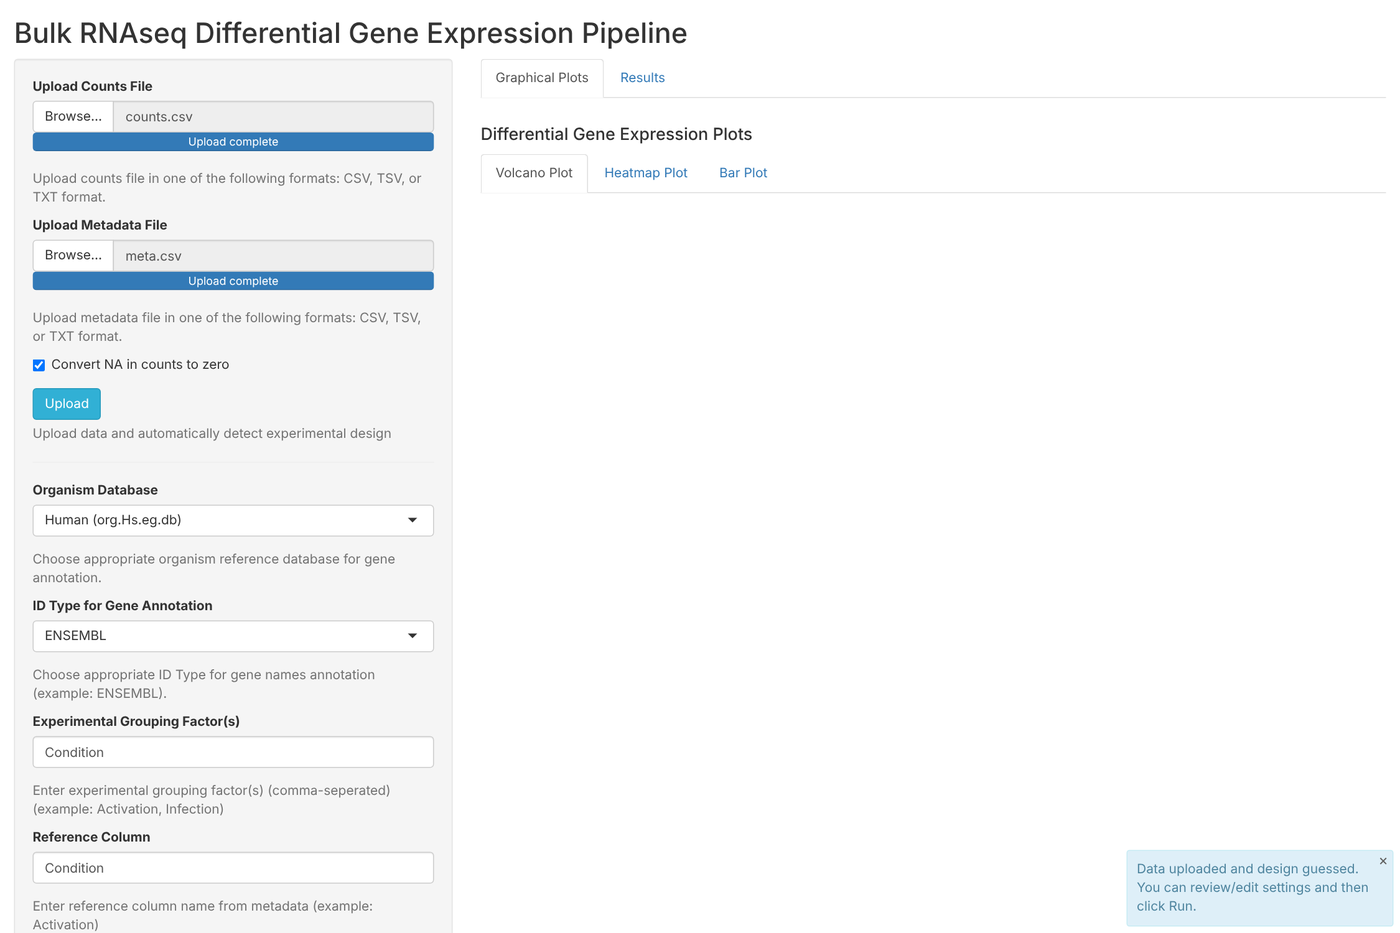
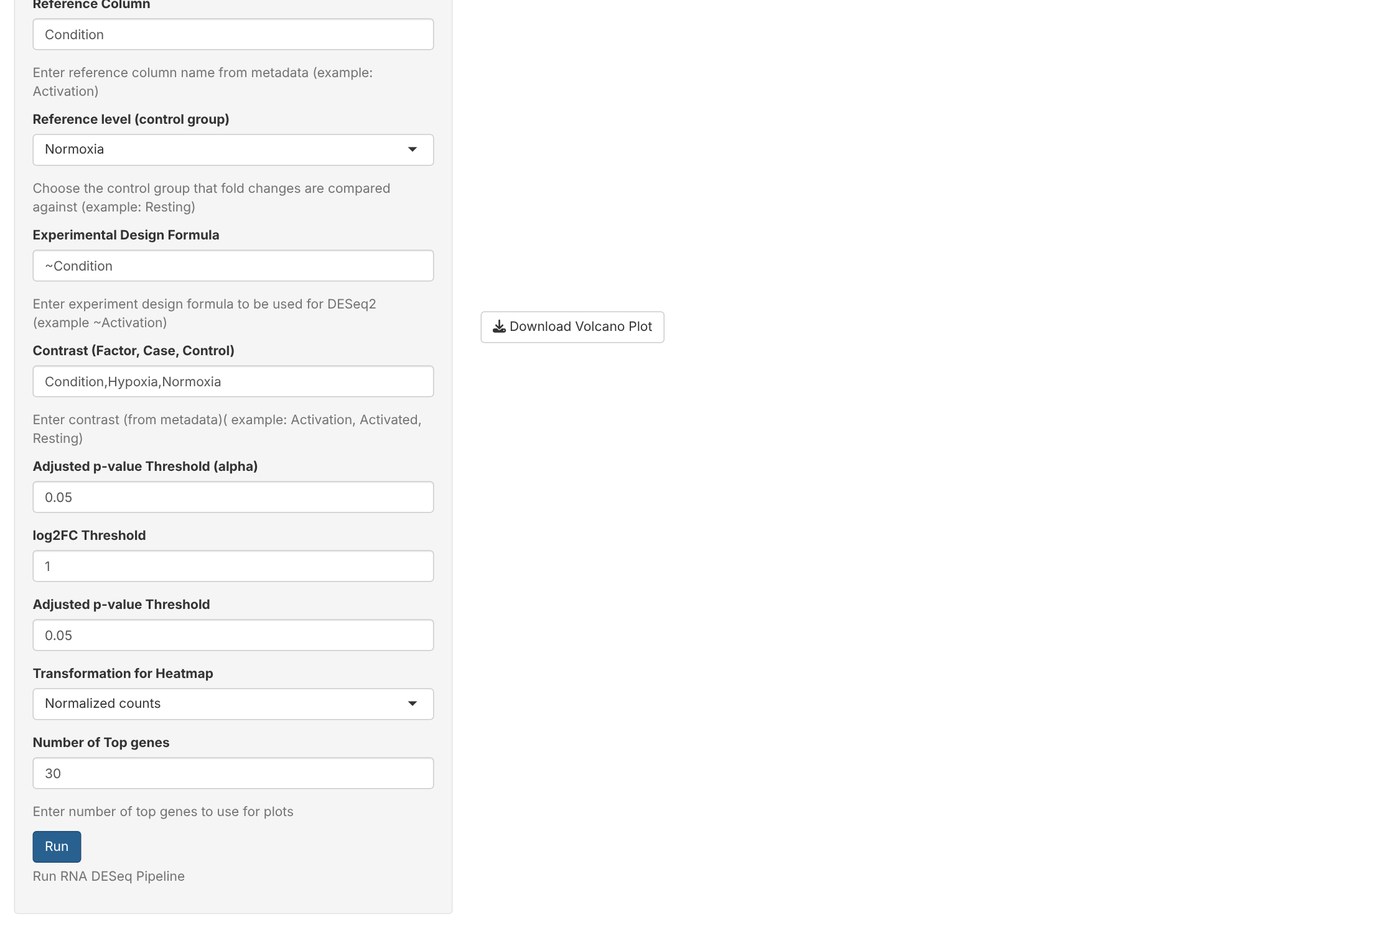
Add files via upload

diff --git a/docs/user_guide.md b/docs/user_guide.md
@@ -7,7 +7,7 @@ source("setup/install_packages.R")
 ```
 Then go to **Session → Restart R**.
 
-> The organism databases (human, mouse, rat, fly, zebrafish, yeast) are large downloads, so the first installation can take 10–20 minutes.
+> Organism databases are large downloads. The setup script installs the **human** database. Others (mouse, rat, fly, zebrafish, yeast) are installed automatically the first time you select them in the app, which can take a few minutes once.
 
 ## 2. Start the app
 Open `app.R` in RStudio and click **Run App**.
@@ -21,16 +21,16 @@ Open `app.R` in RStudio and click **Run App**.
 1. **Upload Counts File**: raw counts, genes × samples (CSV, TSV or TXT). See [input format](../example_data/README.md#input-format).
 2. **Upload Metadata File**: one row per sample, in the same order as the count columns.
 3. Leave **Convert NA in counts to zero** ticked unless you want the app to stop on missing values.
-4. Click **Upload**. The app checks that sample names match, then **guesses the design** from the first metadata column that has 2–10 groups, and fills in the settings below.
+4. Click **Upload**. The app checks that sample names match, removes stray spaces from group labels, then detects the grouping column (the first metadata column with 2–10 groups) and fills in the settings below.
 
-**Check the guessed settings. The app picks the reference group alphabetically**, which is often the wrong way round:
+5. **Choose the control group** in **Reference level (control group)**. The app does not guess it. The **contrast** then fills in automatically (case first, control last). Check the other settings:
 
 | Setting | What it means | Example |
 |---|---|---|
 | **Organism Database** | Used to add gene names | Human (org.Hs.eg.db) |
 | **ID Type** | The type of gene IDs in your counts file: `ENSG…` = ENSEMBL, numbers = ENTREZID, gene names = SYMBOL | ENSEMBL |
 | **Experimental Grouping Factor(s)** | Metadata column(s) that define groups; separate several with commas | `Condition` |
-| **Reference Column / Reference level** | The **control** group that fold changes are measured against | `Condition` / `Normoxia` |
+| **Reference Column / Reference level (control group)** | The **control** group that fold changes are measured against. Choose it from the dropdown. | `Condition` / `Normoxia` |
 | **Experimental Design Formula** | DESeq2 design; add covariates with `+` | `~Condition` or `~Activation + Infection` |
 | **Contrast (Factor, Case, Control)** | The comparison to report: **case first, control last** | `Condition, Hypoxia, Normoxia` |
 
@@ -42,7 +42,7 @@ With contrast `Condition, Hypoxia, Normoxia`, a **positive log2 fold change mean
 - **Transformation for heatmap**: normalized counts, VST or rlog. VST and rlog stabilize the variance of low counts, and VST is a good default.
 - **Number of top genes**: how many genes to label and show in the heatmap and bar plot.
 
-5. Click **Run**. DESeq2 usually takes from a few seconds to about a minute.
+6. Click **Run**. If no control group is chosen, the app asks for one. DESeq2 usually takes from a few seconds to about a minute.
 
 ---
 
@@ -85,6 +85,8 @@ Column meanings are in [outputs.md](outputs.md).
 | *NA values in counts* | Tick "Convert NA in counts to zero", or fix the file. |
 | *Design formula is not valid* | Start the formula with `~`, for example `~Condition`. |
 | *Invalid contrast entered* | Use exactly three items: `factor, case, control`. |
-| More groups than expected | Look for typos or trailing spaces in group labels (`Activated` vs `Activated `). |
+| More groups than expected | Look for typos in group labels, for example `Activated` vs `activated`. Stray spaces are removed automatically. |
 | Few genes get gene names | The ID type or organism is probably wrong. |
 | Package installation fails on first run | Run `setup/install_packages.R` first, then restart R. |
+| *Please choose the reference (control) group* | Pick the control group in the **Reference level** dropdown, then click Run. |
+| A message says an organism database is installing | One-time download the first time you use that organism. Wait for it to finish. |

diff --git a/README.md b/README.md
@@ -11,9 +11,9 @@ Upload a count matrix and a sample sheet, check the experimental design the app 
 ## ✨ Features
 - **Flexible input:** count matrices and sample sheets as CSV, TSV or TXT, up to 1 GB
 - **Built-in checks:** missing or mismatched samples, sample order, duplicated samples and gene IDs, missing counts
-- **Automatic design detection:** suggests the grouping factor, reference group, design formula and contrast, all editable
+- **Guided design setup:** detects the grouping factor and design formula, asks you to choose the control group, then fills in the contrast, all editable
 - **Multi-factor designs**, for example `~Activation + Infection`
-- **Gene annotation** for human, mouse, rat, fly, zebrafish and yeast, or any other Bioconductor organism package, from Ensembl, Entrez or symbol IDs
+- **Gene annotation** for human, mouse, rat, fly, zebrafish and yeast, or any other Bioconductor organism package, from Ensembl, Entrez or symbol IDs. Each organism database is downloaded only the first time it is used.
 - **Plots:** volcano plot with labeled top genes, clustered heatmap (normalized, VST or rlog), bar plot, all downloadable
 - **Tables:** annotated results, raw DESeq2 results and normalized counts, all downloadable
 - **Validated:** results are identical to running DESeq2 directly ([validation](validation/VALIDATION.md))
@@ -25,7 +25,7 @@ Upload a count matrix and a sample sheet, check the experimental design the app 
    ```
 2. **Session → Restart R**, open `app.R`, and click **Run App**.
 3. Upload `example_data/prostate_hypoxia/counts.csv` and `metadata.csv`, then click **Upload**.
-4. Set the **reference level** to `Normoxia` and the **contrast** to `Condition, Hypoxia, Normoxia`, then click **Run**.
+4. Choose **Normoxia** as the **reference level (control group)**. The contrast fills in as `Condition, Hypoxia, Normoxia`. Click **Run**.
 
 Step-by-step instructions with screenshots: **[docs/user_guide.md](docs/user_guide.md)**
 
@@ -33,14 +33,12 @@ Step-by-step instructions with screenshots: **[docs/user_guide.md](docs/user_gui
 | Dataset | Organism | Comparison |
 |---|---|---|
 | `prostate_hypoxia` | Human | Prostate cancer cell lines, hypoxia vs normoxia |
-| `tumor_vs_normal` | Human | Tumor vs normal tissue (37 samples) |
-| `cd4_tcell_activation` | Human | CD4⁺ T cells, activated vs resting (± latent HIV) |
-| `mouse_knockout` | Mouse | Embryonic fibroblasts, knockout vs wild type |
+| `tumor_vs_normal` | Human | Colorectal tumor vs normal colon (37 samples) |
 
-Settings for each dataset and the required file format: [example_data/README.md](example_data/README.md)
+Both datasets are public GEO data ([GSE106305](https://www.ncbi.nlm.nih.gov/geo/query/acc.cgi?acc=GSE106305) and [GSE50760](https://www.ncbi.nlm.nih.gov/geo/query/acc.cgi?acc=GSE50760)). Sources, settings for each dataset and the required file format: [example_data/README.md](example_data/README.md)
 
 ## ✅ Validation
-For all four datasets, the app's results were compared with DESeq2 run directly. Every gene, fold change, p-value and normalized count was **identical**, with the same significant genes (302, 6,834, 17,622 and 5,733). Details: [validation/VALIDATION.md](validation/VALIDATION.md).
+For both datasets, the app's results were compared with DESeq2 run directly. Every gene, fold change, p-value and normalized count was **identical**, with the same significant genes (302 and 6,834). Details: [validation/VALIDATION.md](validation/VALIDATION.md).
 
 ## 📁 Repository structure
 ```
@@ -51,7 +49,7 @@ For all four datasets, the app's results were compared with DESeq2 run directly.
 │   ├── outputs.md                # what each table column and plot means
 │   ├── methods.md                # analysis steps and where the app fits in an RNA-seq workflow
 │   └── screenshots/
-├── example_data/                 # 4 example datasets (counts + metadata)
+├── example_data/                 # 2 example datasets (counts + metadata)
 └── validation/
     ├── VALIDATION.md
     └── compare_to_deseq2.R       # re-runs the comparison

diff --git a/example_data/README.md b/example_data/README.md
@@ -1,17 +1,19 @@
 # Example data
 
-Four ready-to-use datasets. Each folder has a raw count matrix (`counts.csv`, genes × samples) and a sample sheet (`metadata.csv`).
+Two ready-to-use datasets. Each folder has a raw count matrix (`counts.csv`, genes × samples) and a sample sheet (`metadata.csv`).
 
 | Folder | Organism | Gene IDs | Samples | Comparison | App settings |
 |---|---|---|---|---|---|
-| `prostate_hypoxia/` | Human | Ensembl (`ENSG…`) | 8 (4 + 4) | PC3 and LNCaP prostate cancer cells, **Hypoxia vs Normoxia** | Human · ENSEMBL · design `~Condition` · reference `Normoxia` · contrast `Condition, Hypoxia, Normoxia` |
-| `tumor_vs_normal/` | Human | Ensembl | 37 (18 cancer + 19 normal) | **cancer vs normal** tissue | Human · ENSEMBL · `~type` · reference `normal` · contrast `type, cancer, normal` |
-| `cd4_tcell_activation/` | Human | Entrez (numbers) | 16 (8 + 8) | CD4⁺ T cells, **Activated vs Resting** (also uninfected vs latent HIV infection) | Human · ENTREZID · `~Activation` · reference `Resting` · contrast `Activation, Activated, Resting` |
-| `mouse_knockout/` | Mouse | Ensembl (`ENSMUSG…`) | 6 (3 + 3) | Mouse embryonic fibroblasts, **KO vs WT** | Mouse · ENSEMBL · `~genotype` · reference `WT` · contrast `genotype, KO, WT` |
+| `prostate_hypoxia/` | Human | Ensembl (`ENSG…`) | 8 (4 + 4) | PC3 and LNCaP prostate cancer cells, **Hypoxia vs Normoxia** | Human · ENSEMBL · design `~Condition` · control group `Normoxia` · contrast `Condition, Hypoxia, Normoxia` |
+| `tumor_vs_normal/` | Human | Ensembl | 37 (18 cancer + 19 normal) | **colorectal cancer vs normal colon** | Human · ENSEMBL · `~type` · control group `normal` · contrast `type, cancer, normal` |
 
-`cd4_tcell_activation/metadata.csv` also has an `Infection` column, so you can try a two-factor design such as `~Activation + Infection`.
+## Data sources
+Public datasets from NCBI GEO, reduced to the samples used here:
 
-**Note:** in `cd4_tcell_activation/metadata.csv`, four samples were originally labeled `Activated ` (with a trailing space). R treats that as a separate group, so the label was corrected to `Activated`. Check your own sample sheets for stray spaces in group names.
+| Folder | GEO series | Samples used |
+|---|---|---|
+| `prostate_hypoxia/` | [GSE106305](https://www.ncbi.nlm.nih.gov/geo/query/acc.cgi?acc=GSE106305): Guo et al., *Nature Communications* (2019) | LNCaP (empty vector) and PC3 (siCtrl), normoxia and hypoxia, 2 replicates each |
+| `tumor_vs_normal/` | [GSE50760](https://www.ncbi.nlm.nih.gov/geo/query/acc.cgi?acc=GSE50760): colorectal cancer | 18 primary colorectal tumors (SRR975551–SRR975568) and 19 normal colon samples (SRR975569–SRR975587) |
 
 ## Input format
 

diff --git a/validation/VALIDATION.md b/validation/VALIDATION.md
@@ -19,10 +19,13 @@ source("validation/compare_to_deseq2.R")
 |---|---|---|---|---|---|
 | prostate_hypoxia | Hypoxia vs Normoxia | 25,062 | ✅ | 0 / 0 | 302 / 302 |
 | tumor_vs_normal | cancer vs normal | 28,225 | ✅ | 0 / 0 | 6,834 / 6,834 |
-| cd4_tcell_activation | Activated vs Resting | 25,831 | ✅ | 0 / 0 | 17,622 / 17,622 |
-| mouse_knockout | KO vs WT | 16,565 | ✅ | 0 / 0 | 5,733 / 5,733 |
 
-The app's results are **identical** to plain DESeq2 for all four datasets. The app adds checks, annotation and plots without changing the statistics.
+The app's results are **identical** to plain DESeq2 for both datasets. The app adds checks, annotation and plots without changing the statistics.
 
 ## Full app run
-The app was also run in a browser on the three human datasets: upload → automatic design detection → Run → all plots → download of all three tables. The downloaded CSV files matched plain DESeq2 to within 10⁻¹⁴, which is rounding from saving the CSV. Gene symbols were assigned to 75–76% of Ensembl IDs and 96% of Entrez IDs. Ensembl IDs without a symbol are mostly non-coding or novel genes.
+The app was also run in a browser: upload → choose control group → Run → all plots → download of the tables.
+- After upload, the **control group is left blank**. Clicking Run before choosing one shows *"Please choose the reference (control) group"*.
+- Choosing **Normoxia** filled in the contrast `Condition, Hypoxia, Normoxia`.
+- The downloaded results matched plain DESeq2 to within 10⁻¹⁴ (rounding from saving the CSV), with the same 302 significant genes.
+- A sample sheet with a stray space in a group label (`Activated ` vs `Activated`) was read as **two** groups, not three, because labels are trimmed on upload.
+- Gene symbols were assigned to about 76% of Ensembl IDs. IDs without a symbol are mostly non-coding or novel genes.
